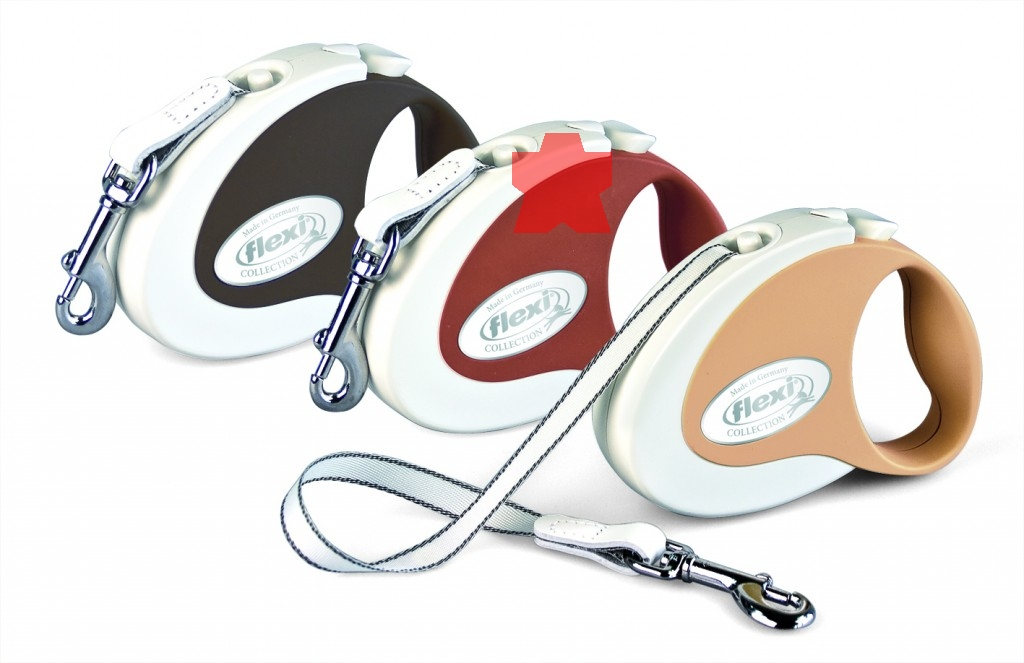
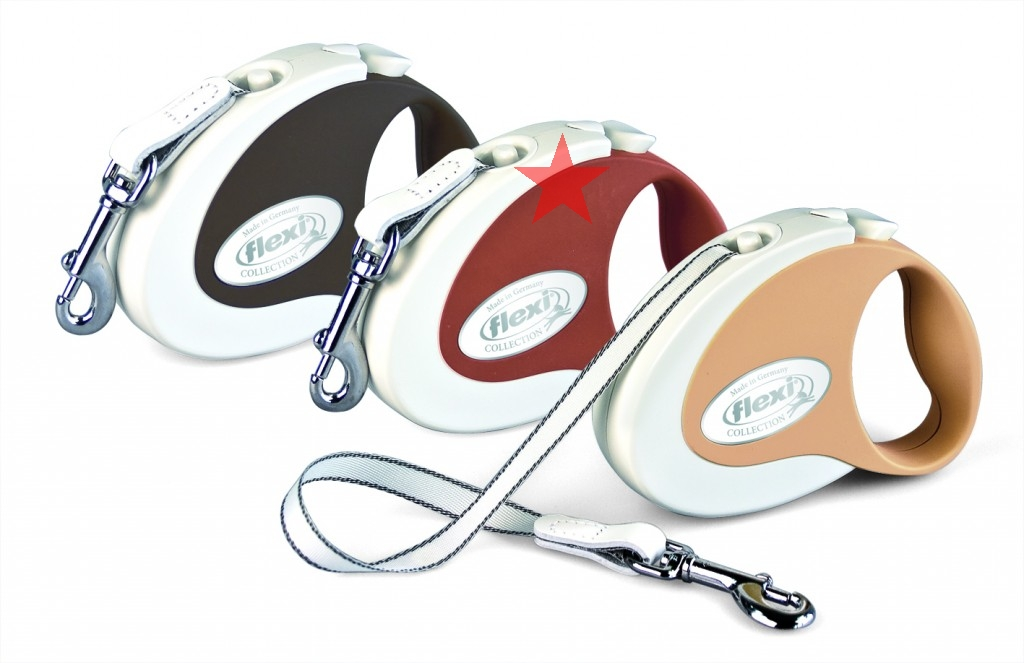
adjusting heart algorithm to prepare for draw, not fill; still need to figure out center

Changed region(s): [[0.5, 0.181, 0.625, 0.362]]

diff --git a/wideimageext/WideImageWrapper.class.php b/wideimageext/WideImageWrapper.class.php
@@ -413,8 +413,8 @@ class WideImageWrapper {
 	public function star($num_points, $r, $x, $y, $color, $angle = 0, $drawingMethod = 'filledpolygon', $returnPoints = false) {
 		// allow smart coords for radius too
 		$r2 = $this->smart_point($r, 0);
-		### pbug('smarter radius', $r2[0], $r, func_get_args());
-
+		##pbug('smarter radius', $r2[0], $r, func_get_args());
+		
 		// fix parameters
 		if( is_string($color) ) $color = GD_Utils::rgba($color, 0);
 
@@ -530,23 +530,37 @@ class WideImageWrapper {
 	 * @return mixed                 either the Wrapper (for chaining) or the list of points if $returnPoints = true
 	 */
 	public function heart($r, $x, $y, $color, $angle = 0, $drawingMethod = 'filled', $returnPoints = false) {
-		// http://www.mathematische-basteleien.de/heart.htm
-		//http://mathworld.wolfram.com/HeartCurve.html
-
-		// draw a diamond and 2 circles, call it a day
+		// fix parameters
+		if( is_string($color) ) $color = GD_Utils::rgba($color, 0);
 		list($x, $y) = $this->smart_point($x, $y);
 		list($r, $r2) = $this->smart_point($r, 0); // necessary?  only for %, really
 		// adjust for orientation
 		$angle -= 0.125;
 
+		// http://www.mathematische-basteleien.de/heart.htm
+		//http://mathworld.wolfram.com/HeartCurve.html
+
+		// draw a diamond and 2 circles, call it a day
+
 		$this->square(/*w*/$r, /*x*/$x, /*y*/$y, /*color*/$color, $angle, sprintf('%spolygon', $drawingMethod ));
-		
+	
+		/// TODO - figure out how to draw, not fill
+		$drawingMethod = "{$drawingMethod}arc";
+		/*
+
+		$this->canvas->$drawingMethod($x, $y, $r, $r, ($angle-0.5)*360, ($angle+0.25)*360, $color, IMG_ARC_EDGED);
+		$this->canvas->$drawingMethod($x, $y+$r, $r, $r, ($angle-0.5)*360, ($angle+0.25)*360, $color, IMG_ARC_PIE);
+		$this->canvas->$drawingMethod($x, $y+2*$r, $r, $r, ($angle-0.5)*360, ($angle+0.25)*360, $color, IMG_ARC_CHORD);
+		$this->canvas->$drawingMethod($x+$r, $y+2*$r, $r, $r, ($angle-0.5)*360, ($angle+0.25)*360, $color, IMG_ARC_NOFILL);
+		*/
+	
 		// rotate center around point
 		list($dx, $dy) = GD_Utils::cartesian($r/2, $angle);
-		$this->circle($r, $x + $dx, $y + $dy, $color, sprintf('%sellipse', $drawingMethod ));
+		##$this->circle($r, $x + $dx, $y + $dy, $color, sprintf('%sellipse', $drawingMethod ));
+		$this->canvas->$drawingMethod($x + $dx, $y + $dy, $r, $r, ($angle-0.25)*360, ($angle+0.25)*360, $color, IMG_ARC_PIE);
 		list($dx, $dy) = GD_Utils::cartesian($r/2, $angle - 0.25);
-		$this->circle($r, $x + $dx, $y + $dy, $color, sprintf('%sellipse', $drawingMethod ));
-
+		## $this->circle($r, $x + $dx, $y + $dy, $color, sprintf('%sellipse', $drawingMethod ));
+		$this->canvas->$drawingMethod($x + $dx, $y + $dy, $r, $r, ($angle-0.5)*360, ($angle)*360, $color, IMG_ARC_PIE);
 		
 		return $this; // chain
 	}

diff --git a/wideimagetest.php b/wideimagetest.php
@@ -143,7 +143,7 @@ $watermark->makeTransparent(); //$watermark->image->fill(0,0,$watermark->image->
 //$watermark->image->colorTransparent( GD_Utils::rgba('000000', 1));
 
 $watermark2 = WideImageWrapper::copy($watermark);
-$watermark->star(5, 100, 'center', 'center', GD_Utils::rgba('FF0000'));
+$watermark->star(5, '50%', 'center', 'center', GD_Utils::rgba('FF0000'));
 $watermark->save('watermark-star.png');
 
 $watermark2->star(5, 100, '50%', '50%', GD_Utils::rgba('00FF00'));
@@ -294,10 +294,12 @@ showImages('Split Operation - wrapper', 'wideimagetest-wrapper-splitops.jpg'); /
 $wrapper = new WideImageWrapper('original.jpg');
 $wrapper
 	->setActiveFont('ERASMD.TTF', 18, 'FF6600')
-	->heart(/*r*/'100', /*x*/'25%', /*y*/'75%', /*color*/'F60000')
-		->text('heart 50 25% 75% 0.3', /*x*/'25%', /*y*/'75%')
+	->heart(/*r*/'100', /*x*/'25%', /*y*/'75%', /*color*/'F60000', 0.14)
+		->text('heart 50 25% 75% 0.14', /*x*/'25%', /*y*/'75%')
 	->circle(/*r*/'15%', /*x*/'75%', /*y*/'25%', /*color*/'00F600')
 		->text('circle', /*x*/'75%', /*y*/'25%')
+	->circle(/*r*/'15%', /*x*/'25%', /*y*/'75%', /*color*/'0000F6', '')
+		->text('hollow circle', /*x*/'25%', /*y*/'75%')
 	->save('wideimagetest-wrapper-heart.jpg')
 	;
 
